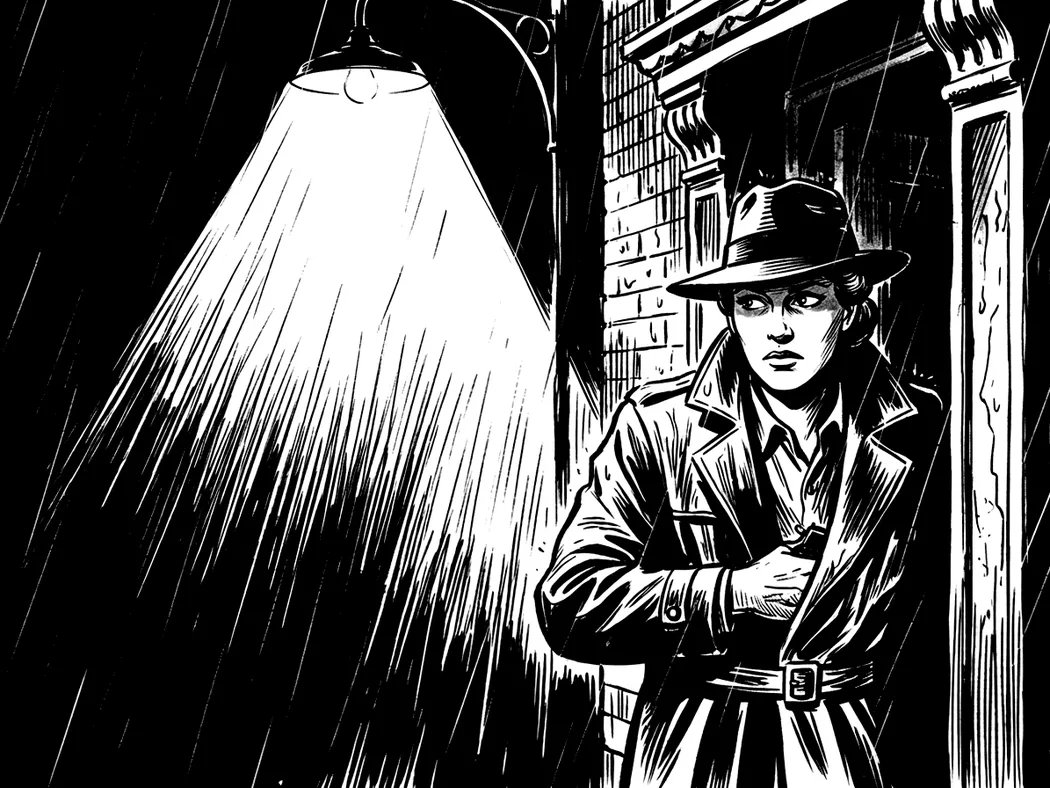
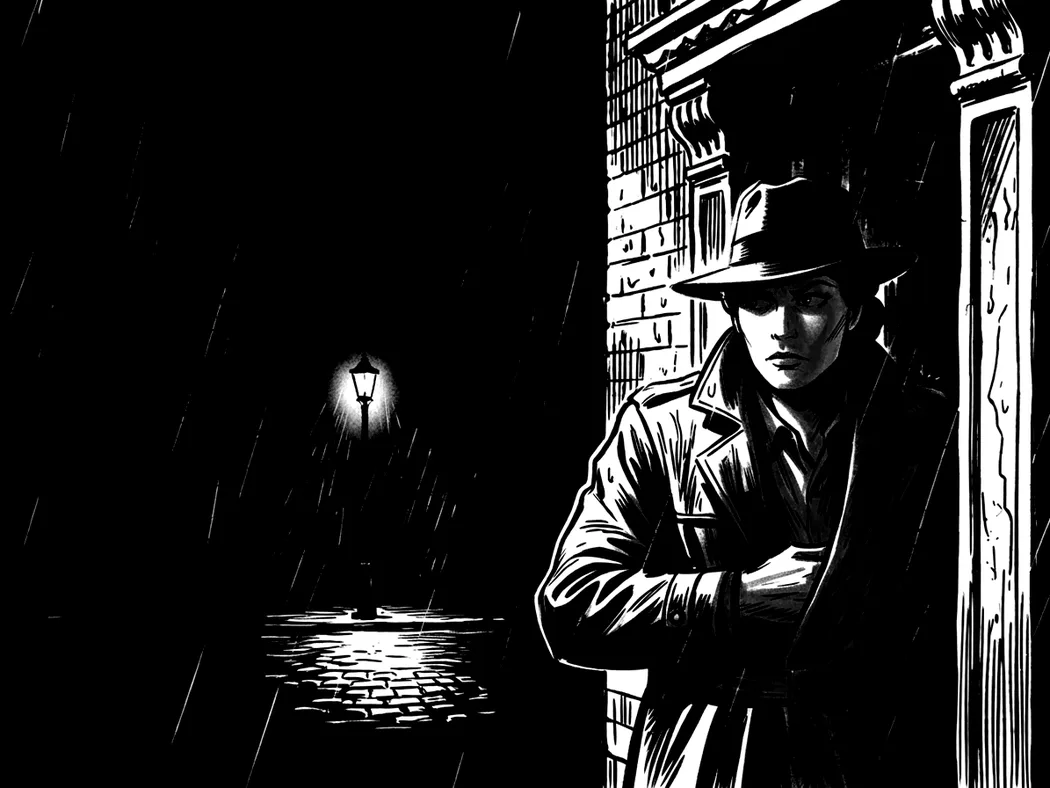
Livvaktens rollbilder: biffigare man, kvinnan lång och atletisk, mörk gata med en lykta på avstånd (Jonas 2026-11-13)
Lyktan i mannens bild flyttades för hand så att den syns i mobilen.
Jonas omdömen står under Omdömen i trådar i docs/bildsmak.md.

Claude-Session: https://claude.ai/code/session_01X82C4AwGxTk3qPEhWtzhHp

diff --git a/src/scenes/sceneImages.js b/src/scenes/sceneImages.js
@@ -87,8 +87,8 @@ export const SCENE_IMAGES = /** @type {const} */ ({
   roleDetectiveWoman: { src: roleDetectiveWoman, alt: 'En kvinnlig detektiv i ljus trenchcoat och hatt antecknar i ett block i en regnig gränd.', position: '50% 30%' },
   roleDetectiveMan: { src: roleDetectiveMan, alt: 'En manlig detektiv i mörk trenchcoat och hatt antecknar i ett block i en regnig gränd.', position: '75% 30%' },
   roleDoctorWoman: { src: roleDoctorWoman, alt: 'En läkare i mörk kappa med stetoskop och läkarväska står i en upplyst dörröppning.', position: '100% 30%' },
-  roleBodyguardWoman: { src: roleBodyguardWoman, alt: 'En livvakt i trenchcoat och fedora, med uppsatt hår, står i en mörk port i regnet med handen innanför kappan och spanar längs gatan.', position: '80% 30%' },
-  roleBodyguardMan: { src: roleBodyguardMan, alt: 'En livvakt med mustasch, i trenchcoat och hatt, står i en mörk port i regnet med handen innanför rocken och spanar längs gatan.', position: '80% 30%' },
+  roleBodyguardWoman: { src: roleBodyguardWoman, alt: 'En lång livvakt i trenchcoat och fedora, med uppsatt hår, står i en mörk port med handen innanför kappan. Långt bort på den regniga gatan lyser en ensam gatlykta.', position: '80% 30%' },
+  roleBodyguardMan: { src: roleBodyguardMan, alt: 'En stor och tung livvakt i trenchcoat och fedora står i en mörk port med handen innanför rocken. Långt bort på den regniga gatan lyser en ensam gatlykta.', position: '80% 30%' },
   roleDoctorMan: { src: roleDoctorMan, alt: 'En läkare med glasögon och mustasch, i mörk kappa med stetoskop och läkarväska, står i en upplyst dörröppning.', position: '100% 30%' },
   roleLawyerWoman: { src: roleLawyerWoman, alt: 'En advokat i mörk dräkt och liten hatt kliver med portföljen i handen ut ur ljuset från en glasdörr i tingshusets mörka korridor.', position: '85% 30%' },
   roleLawyerMan: { src: roleLawyerMan, alt: 'En advokat med mustasch, i kostym med väst och hatt, kliver med portföljen i handen ut ur ljuset från en glasdörr i tingshusets mörka korridor.', position: '85% 30%' },

diff --git a/docs/bildsmak.md b/docs/bildsmak.md
@@ -130,6 +130,27 @@ en regel.
   Sedan valdes ändå första versionen, där advokaten är en man i båda: "Jag
   tycker det funkar som nu. Att ansiktet är skuggat får representera att
   advokaten är okänd."
+- 2026-11-13, `roll-livvakt-man`, ny biffigare version (tung slagskämpe med
+  boxarnäsa, tung käke och tjock nacke): "Jag tycker det ser bra ut".
+- 2026-11-13, `roll-livvakt-kvinna`, om att göra henne biffig som mannen:
+  "Fast jag tror inte det ser bra ut om hon är biffig på det sättet".
+- 2026-11-13, `roll-livvakt-kvinna`, ny version (lång och senig, hård blick),
+  där lampan hänger till vänster och käglan går bort från porten men
+  ansiktena i porten ändå är jämnt upplysta: "Ser bra ut. Men jag funderar på
+  belysningen. Känns den realistisk?"
+- 2026-11-13, `roll-livvakt-*` med lampan rakt ovanför porten (skugga över
+  ögonen, upplyst haka): "Ännu konstigare. Kan man låta lampan vara långt
+  bort. En lyktstolpe på avstånd. Och en ganska mörk bild. Följdaktligen. Du
+  kan ändra en av dem bara, först."
+- 2026-11-13, `roll-livvakt-man` med en lyktstolpe på avstånd längst till
+  vänster i en mörk bild: "Den var bra, men lyktstolpen måste kanske vara mer
+  åt höger, för att få plats i mobilvyn, eller?"
+- 2026-11-13, `roll-livvakt-man` med lyktstolpen på avstånd flyttad 200 px åt
+  höger (`roll-livvakt-man-lykta-flyttad`): "Det ser bra ut!" Lyktan och
+  ljuspölen flyttades för hand, eftersom Gemini inte flyttade dem när
+  prompten bad om det.
+- 2026-11-13, `roll-livvakt-kvinna` i samma mörka gata med lyktan på avstånd,
+  bredvid mannen: "Det blir bra!"
 
 ## Bilder att byta
 
